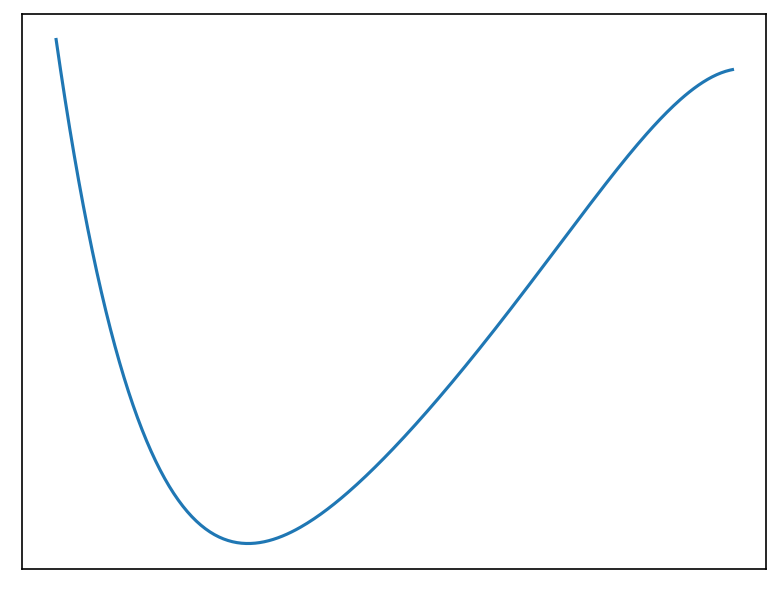
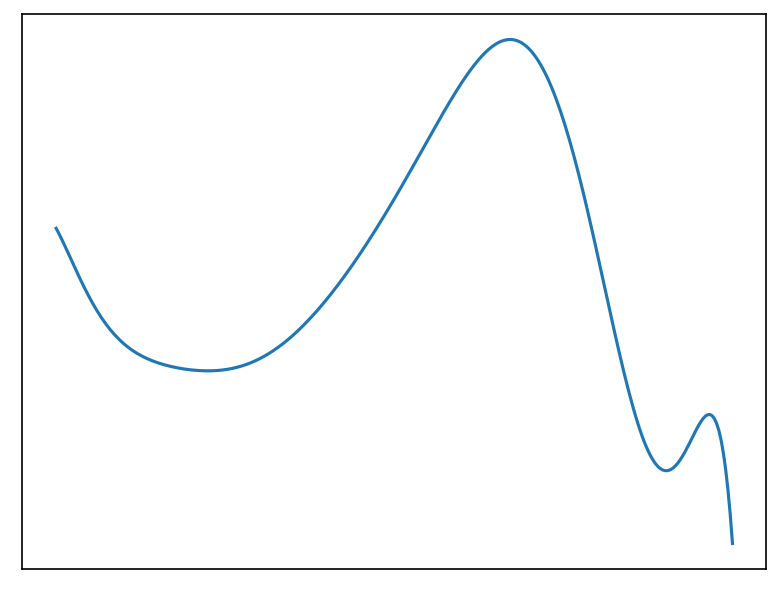
added standalone game scene and associated assets

diff --git a/full_env.py b/full_env.py
@@ -1,0 +1,202 @@
+import pygame, sys
+import numpy as np
+from os import chdir
+from matplotlib import pyplot as plt
+
+# global variables
+screen_width = 720
+screen_height = 480
+
+chdir('SnakeRider')
+box   = pygame.image.load('Assets/frame.png')
+back  = pygame.image.load('Assets/notebook.jpg')
+play  = pygame.image.load('Assets/play.png')
+erase = pygame.image.load('Assets/erase.png')
+
+'''---------------------------------SPRITES/CLASSES---------------------'''
+
+
+class Whiteboard(pygame.sprite.Sprite):
+    def __init__(self, x, y, w, h, degree, sprite):
+        super(Whiteboard, self).__init__()
+        self.h, self.w  = h, w
+        self.x, self.y  = x, y # x, y cords
+        self.values_x   = [] # x values
+        self.values_y   = [] # y values
+        self.deg        = degree
+        self.p, self.pd = None, None # polynomial expressions of regression and derivative
+        self.reg        = None # regression function
+        self.regd       = None # derivative/integral regression function
+        self.sprite     = pygame.transform.scale(sprite, (w, h))
+
+    def add_point(self, x, y):
+        """
+        :param x: X cord
+        :param y: Y cord
+        """
+        self.values_x.append(x)
+        self.values_y.append(y)
+
+    def calc_reg(self, style='none'):
+        """
+        :param style: Integrate or derive
+        """
+        self.p = np.polyfit(self.values_x, self.values_y, self.deg)
+        self.reg = np.poly1d(self.p)
+        arr = []
+        assert style == 'dev' or style == 'int' or style == 'none'
+        # calculate using power rule on polynomial coeffs
+
+        if style == 'none':
+            return None
+        elif style == 'dev':
+            for i in range(self.deg):
+                arr.append(self.p[i]*(self.deg-i))
+        elif style == 'int':
+            for i in range(self.deg+1):
+                arr.append(self.p[i]/(self.deg-i+1))
+            arr.append(0)
+
+        self.pd   = np.array(arr)
+        self.regd = np.poly1d(self.pd)
+
+    def compute_opt(self):
+        x_vals  = np.linspace(25, self.w-25, self.w-50)
+        y_vals  = self.reg(x_vals) # calculate regression representation over the range
+        y_vals += 20
+        x_vals += 20
+        return list(np.stack((x_vals, y_vals)).T)
+
+    def save(self):
+        """
+        saves output
+        """
+        x_min = min(self.values_x)
+        x_max = max(self.values_x)
+        y_min = min(self.values_y)
+        y_max = max(self.values_y)
+        ran = np.linspace(x_min, x_max, 300) # range
+        ax = plt.gca()
+        ax.get_xaxis().set_visible(False)
+        ax.get_yaxis().set_visible(False)
+        plt.plot(ran, self.reg(ran))
+        plt.savefig('SnakeRider/SRGame/Graphs/plt_1.png', bbox_inches='tight', dpi=150)
+        plt.clf()
+        ax = plt.gca()
+        ax.get_xaxis().set_visible(False)
+        ax.get_yaxis().set_visible(False)
+        plt.plot(ran, self.regd(ran))
+        plt.savefig('SnakeRider/SRGame/Graphs/plt_2.png', bbox_inches='tight', dpi=150)
+        plt.clf()
+
+    def clear(self):
+        self.values_x = []  # x values
+        self.values_y = []  # y values
+
+
+class Icon(pygame.sprite.Sprite):
+    def __init__(self, x, y, w, h, sprite):
+        super(Icon, self).__init__()
+        self.x, self.y = x, y
+        self.w, self.h = w, h
+        self.sprite    = pygame.transform.scale(sprite, (w, h))
+        self.is_light  = False
+
+    def is_on(self):
+        mouse_x, mouse_y = pygame.mouse.get_pos()
+        return self.x < mouse_x < self.x + self.w and self.y < mouse_y < self.y + self.h
+
+    def lighten(self):
+        if not self.is_light:
+            self.sprite.fill((100, 100, 100), special_flags=pygame.BLEND_RGB_SUB)
+            self.is_light = True
+
+    def darken(self):
+        if self.is_light:
+            self.sprite.fill((100, 100, 100), special_flags=pygame.BLEND_RGB_ADD)
+            self.is_light = False
+
+
+def main():
+    '''---------------------------------SETUP-------------------------------'''
+    pygame.init()
+    clock = pygame.time.Clock()
+    screen = pygame.display.set_mode((screen_width, screen_height))
+    pygame.display.set_caption('Game Title')
+    wb1     = Whiteboard(20, 20, 320, 340, 5, box)
+    wb2     = Whiteboard(380, 20, 320, 340, 5, box)
+    eraser  = Icon(40, 380, 74, 74, erase)
+    draw    = Icon(325, 380, 74, 74, play)
+    arrived = []
+    rolling_y = 0
+    hold = False
+    smooth = False
+
+    eraser.lighten()
+    draw.lighten()
+
+    '''----------------------------------LOOP-------------------------------'''
+    while True:
+        # Handling events
+        mouse_x, mouse_y = pygame.mouse.get_pos()
+        for event in pygame.event.get():
+            if event.type == pygame.QUIT:
+                quit()
+                sys.exit()
+            elif event.type == pygame.MOUSEBUTTONUP:
+                hold = False
+
+            elif event.type == pygame.MOUSEBUTTONDOWN:
+                if eraser.is_on() and not hold:
+                    arrived = []
+                    wb1.clear()
+                    smooth = False
+                hold = True
+
+        if hold and not smooth:
+            if wb1.x + 25 < mouse_x < wb1.x + wb1.w - 25 and wb1.y + 25 < mouse_y < wb1.y + wb1.h - 25:
+                arrived.append((mouse_x, mouse_y))
+                wb1.add_point(mouse_x-wb1.x, mouse_y - wb1.y)
+                # wb1.add_point(mouse_x-wb1.x, wb1.h//2 - (mouse_y - wb1.y))
+
+        if eraser.is_on():
+            eraser.lighten()
+        elif eraser.is_light:
+            eraser.darken()
+
+        if draw.is_on():
+            draw.lighten()
+        elif draw.is_light:
+            draw.darken()
+
+        if not hold and arrived != [] and not smooth:
+            wb1.calc_reg('dev')
+            arrived = wb1.compute_opt()
+
+            # remove all out of range values that might come from regression
+            l = len(arrived)
+            for i in range(l):
+                if not wb1.y + 25 < arrived[l - i - 1][1] < wb1.y + wb1.h - 25:
+                    arrived.pop(l - i - 1)
+            smooth = True
+
+        # Updating Sprites
+
+        # Drawing
+        screen.fill('white')
+        screen.blit(back, (-20, -20))
+        screen.blit(wb1.sprite, (wb1.x, wb1.y))
+        screen.blit(wb2.sprite, (wb2.x, wb2.y))
+        screen.blit(eraser.sprite, (eraser.x, eraser.y))
+        screen.blit(draw.sprite, (draw.x, draw.y))
+
+        if len(arrived) > 1:
+            pygame.draw.lines(screen, 'black', False, arrived, 4)
+
+        # Updating the window
+        pygame.display.flip()
+        clock.tick(60)
+
+
+if __name__ == '__main__':
+    main()
